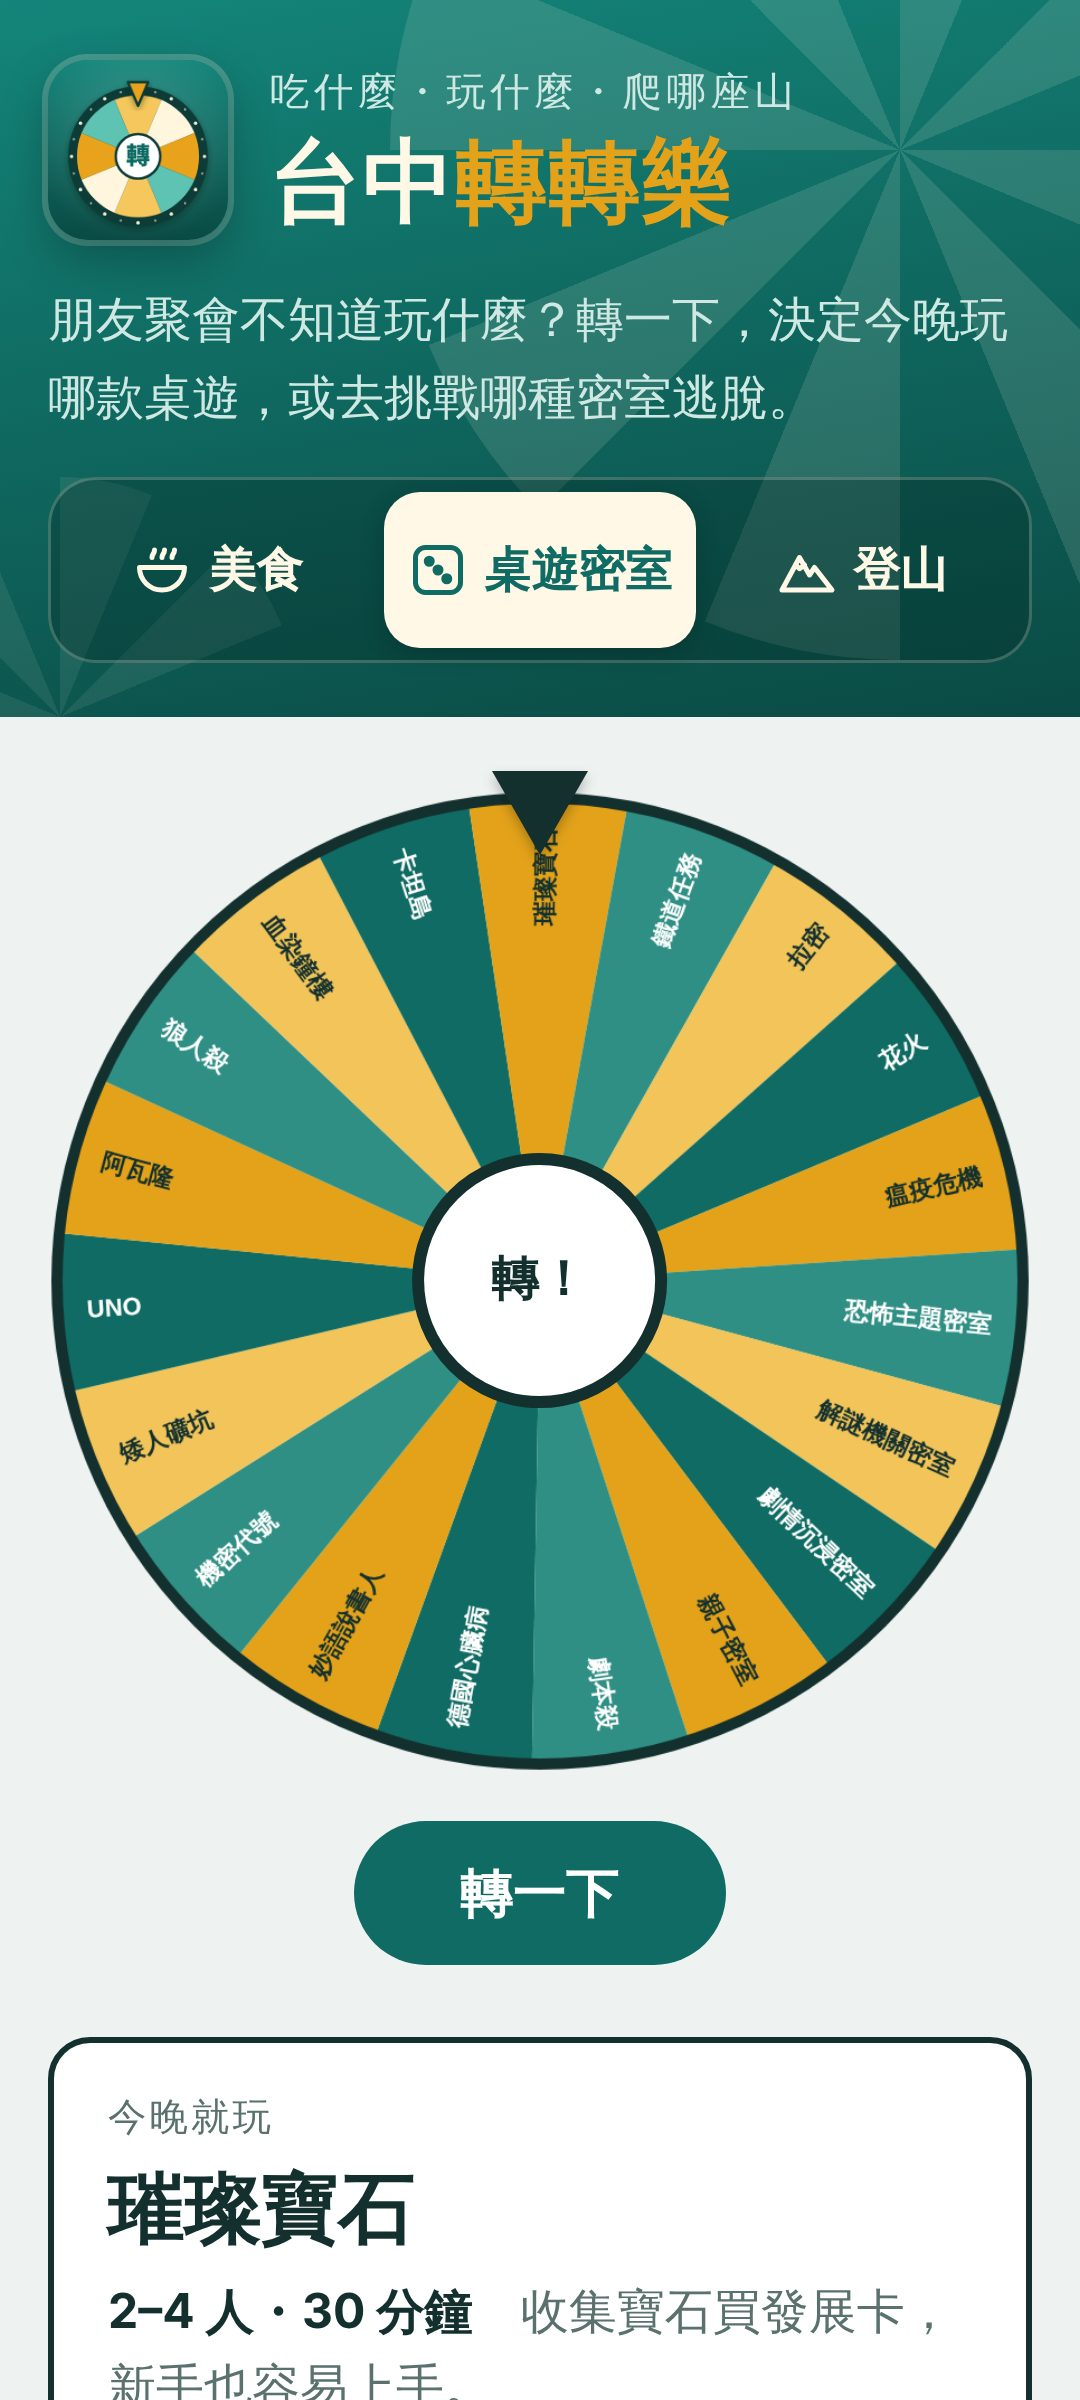
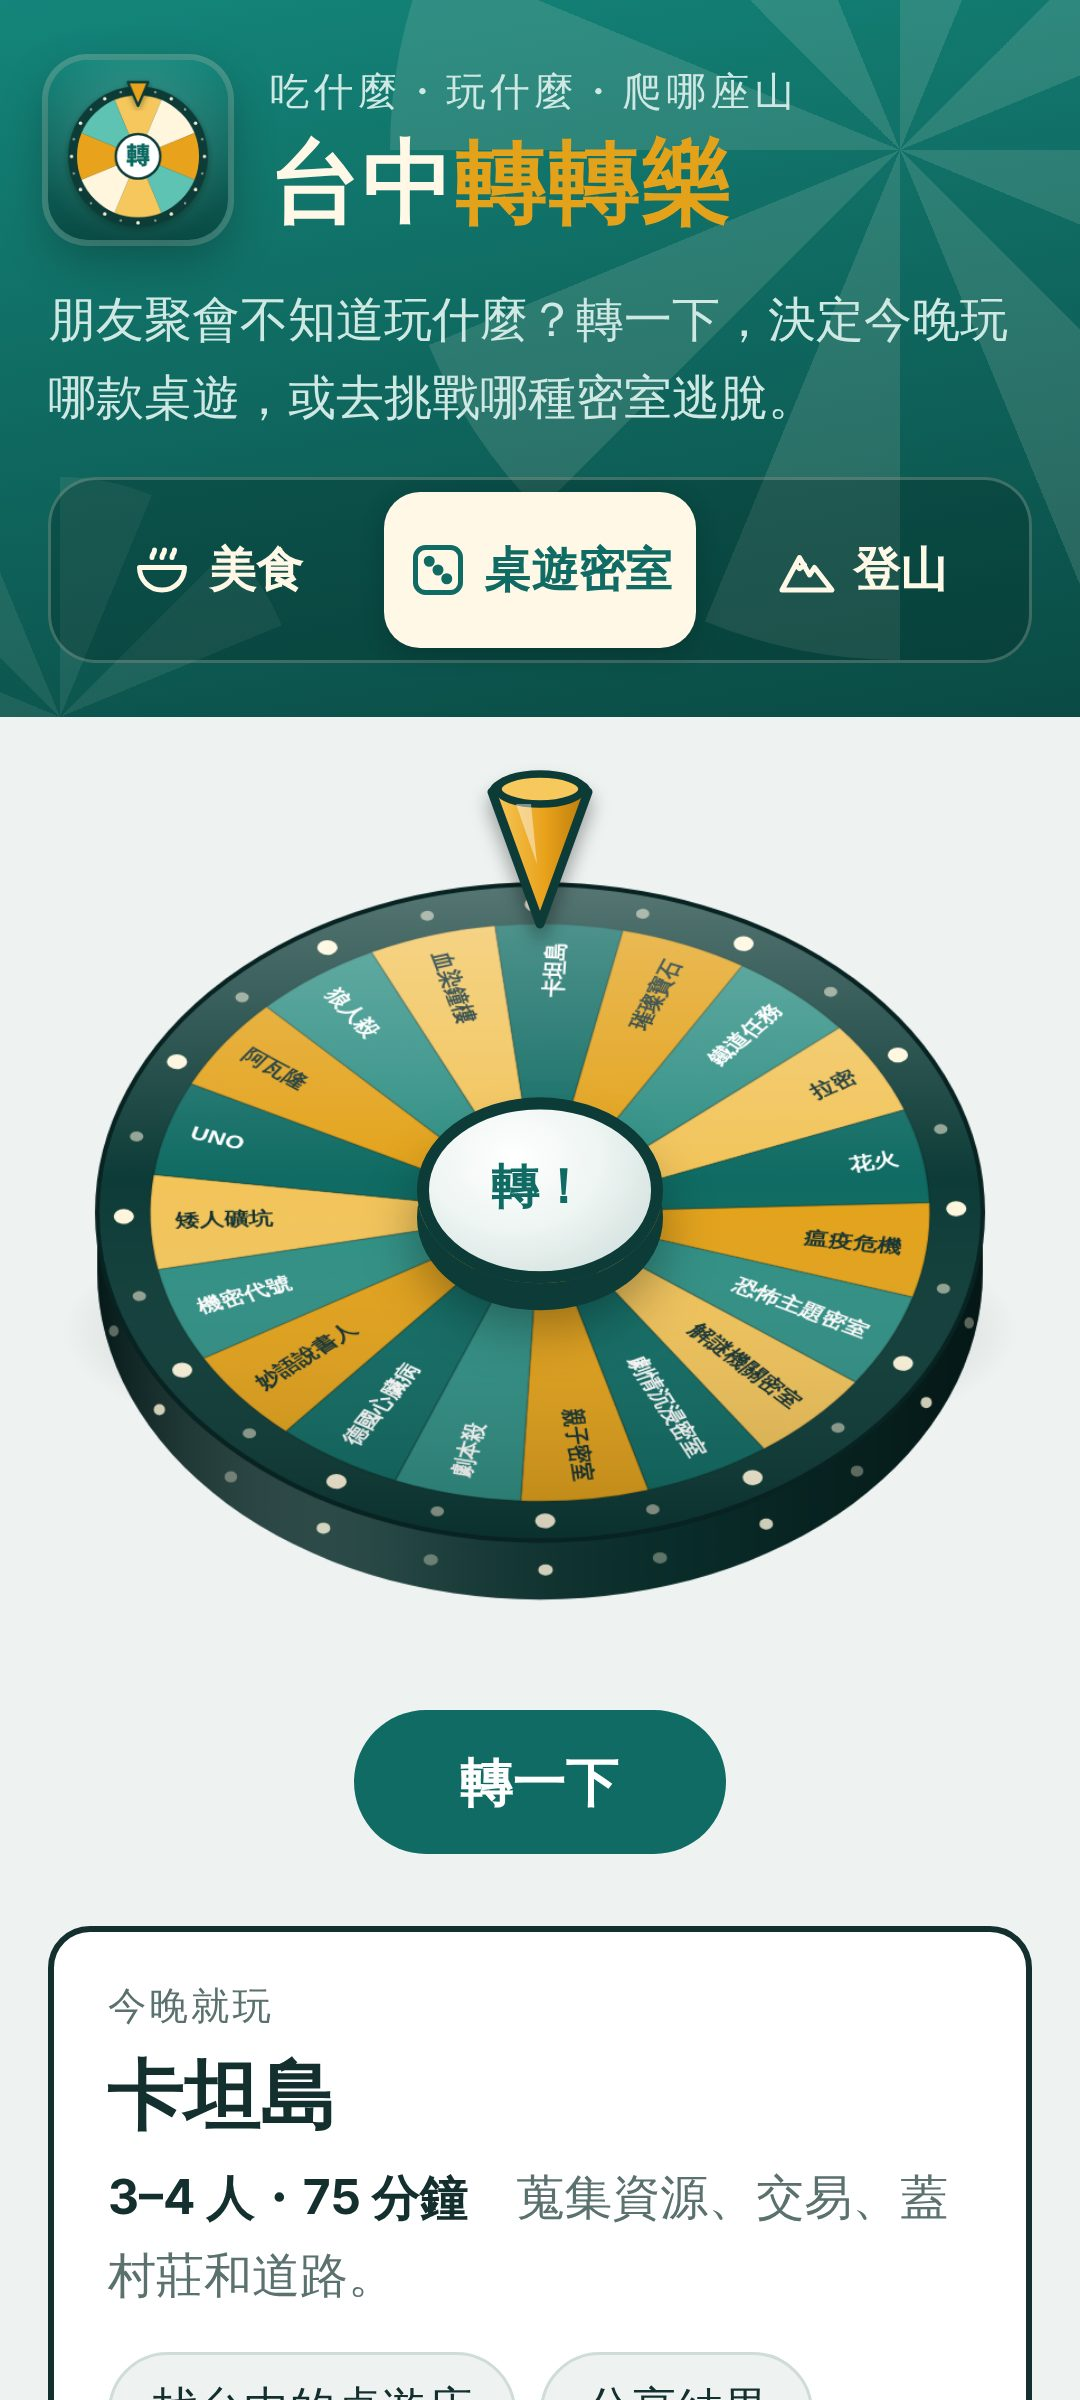
台中轉轉樂：轉盤改成立體 3D
Claude-Session: https://claude.ai/code/session_01RjTRgTtaL6n1Y88vUja3y2

diff --git a/wheel/index.html b/wheel/index.html
@@ -42,6 +42,9 @@
     --seg-4: #f2c45a;
     --seg-ink-dark: #14302e;
     --seg-ink-light: #ffffff;
+    --wheel-rim: #0d3b37;
+    --wheel-bulb: #fff6dd;
+    --wheel-shadow: rgba(4, 33, 30, .38);
     --font-display: "PingFang TC", "Noto Sans TC", "Microsoft JhengHei", sans-serif;
     --font-body: "PingFang TC", "Noto Sans TC", "Microsoft JhengHei", system-ui, sans-serif;
   }
@@ -52,6 +55,7 @@
       --hero-top: #143a36; --hero-bottom: #0b1f1d; --hero-fg: #e4efed; --hero-muted: #9fc2bc; --hero-line: rgba(228, 239, 237, .16); --hero-tab-bg: rgba(0, 0, 0, .3); --hero-tab-on: #4cc1b3; --hero-tab-on-fg: #0b1716;
       --seg-1: #1f7f75; --seg-2: #d79a1c; --seg-3: #2d9e91; --seg-4: #e9bc4f;
       --seg-ink-dark: #0e1918; --seg-ink-light: #ffffff;
+      --wheel-rim: #1f5b55; --wheel-bulb: #fff1c9; --wheel-shadow: rgba(0, 0, 0, .55);
       color-scheme: dark;
     }
   }
@@ -61,6 +65,7 @@
     --hero-top: #143a36; --hero-bottom: #0b1f1d; --hero-fg: #e4efed; --hero-muted: #9fc2bc; --hero-line: rgba(228, 239, 237, .16); --hero-tab-bg: rgba(0, 0, 0, .3); --hero-tab-on: #4cc1b3; --hero-tab-on-fg: #0b1716;
     --seg-1: #1f7f75; --seg-2: #d79a1c; --seg-3: #2d9e91; --seg-4: #e9bc4f;
     --seg-ink-dark: #0e1918; --seg-ink-light: #ffffff;
+    --wheel-rim: #1f5b55; --wheel-bulb: #fff1c9; --wheel-shadow: rgba(0, 0, 0, .55);
     color-scheme: dark;
   }
 
@@ -140,23 +145,27 @@
   @media (min-width: 820px) { .layout { grid-template-columns: minmax(0, 1.1fr) minmax(0, 1fr); } }
 
   .stage { display: grid; justify-items: center; gap: 16px; min-width: 0; }
-  .wheel-box { position: relative; width: min(100%, 440px); aspect-ratio: 1; max-width: 100%; }
+  .wheel-box { position: relative; width: min(100%, 440px); aspect-ratio: 880 / 780; max-width: 100%; }
   .wheel-box canvas { width: 100%; height: 100%; display: block; }
+  /* 立體轉盤：轉盤面往後傾斜，畫在 canvas 上；指針和中心鈕用 HTML 疊在上面 */
   .pointer {
-    position: absolute; left: 50%; top: -6px; transform: translateX(-50%);
-    width: 0; height: 0;
-    border-left: 16px solid transparent; border-right: 16px solid transparent;
-    border-top: 28px solid var(--fg);
-    filter: drop-shadow(0 2px 2px rgba(0,0,0,.25));
+    position: absolute; left: 50%; top: calc(10.6% - 40px); transform: translateX(-50%);
+    width: 44px; height: 58px; z-index: 2;
+    filter: drop-shadow(0 4px 3px rgba(0, 0, 0, .35));
   }
+  .pointer svg { width: 100%; height: 100%; display: block; }
   .hub {
-    position: absolute; inset: 50% auto auto 50%; transform: translate(-50%, -50%);
-    width: 26%; aspect-ratio: 1; border-radius: 50%;
-    background: var(--surface); border: 4px solid var(--fg);
+    position: absolute; left: 50%; top: 48.5%; transform: translate(-50%, -62%);
+    width: 25%; aspect-ratio: 1.33; border-radius: 50%;
+    background: radial-gradient(ellipse at 38% 30%, #ffffff 0%, #eef5f3 45%, #c9dad6 100%);
+    border: 4px solid var(--wheel-rim);
+    box-shadow: 0 9px 0 var(--wheel-rim), 0 14px 18px rgba(0, 0, 0, .35);
     display: grid; place-items: center;
-    font: 900 clamp(1rem, 4vw, 1.4rem) var(--font-display); color: var(--fg);
+    font: 900 clamp(1rem, 4vw, 1.4rem) var(--font-display); color: #0f6b63;
     cursor: pointer; padding: 0;
+    transition: transform .08s, box-shadow .08s;
   }
+  .hub:active:not(:disabled) { transform: translate(-50%, calc(-62% + 6px)); box-shadow: 0 3px 0 var(--wheel-rim), 0 6px 10px rgba(0, 0, 0, .3); }
   .hub:disabled { cursor: wait; }
 
   .spin-btn {
@@ -270,8 +279,16 @@
   <div class="layout">
     <section class="stage" aria-label="轉盤">
       <div class="wheel-box">
-        <canvas id="wheel" width="880" height="880" aria-hidden="true"></canvas>
-        <div class="pointer" aria-hidden="true"></div>
+        <canvas id="wheel" width="880" height="780" aria-hidden="true"></canvas>
+        <div class="pointer" aria-hidden="true">
+          <svg viewBox="0 0 44 58">
+            <defs><linearGradient id="pg" x1="0" y1="0" x2="1" y2="0"><stop offset="0" stop-color="#f7c95c"/><stop offset=".55" stop-color="#e9a21b"/><stop offset="1" stop-color="#b9780c"/></linearGradient></defs>
+            <ellipse cx="22" cy="10" rx="17" ry="7" fill="#0d3b37"/>
+            <path d="M6 10 L38 10 L22 54 Z" fill="url(#pg)" stroke="#0d3b37" stroke-width="3" stroke-linejoin="round"/>
+            <ellipse cx="22" cy="9" rx="14" ry="5" fill="#f7c95c" stroke="#0d3b37" stroke-width="2.5"/>
+            <path d="M14 14 L19 14 L21 34 Z" fill="#ffffff" opacity=".45"/>
+          </svg>
+        </div>
         <button id="hub" class="hub" type="button" aria-label="轉動轉盤">轉！</button>
       </div>
       <button id="spin" class="spin-btn" type="button">轉一下</button>
@@ -493,63 +510,148 @@
 
   function token(name) { return getComputedStyle(document.documentElement).getPropertyValue(name).trim(); }
 
-  function draw() {
-    var list = active();
-    var W = canvas.width, R = W / 2;
-    ctx.clearRect(0, 0, W, W);
-    var segFill = [token("--seg-1"), token("--seg-2"), token("--seg-3"), token("--seg-4")];
-    var inkLight = token("--seg-ink-light"), inkDark = token("--seg-ink-dark");
-    var rim = token("--fg");
-
-    ctx.save();
-    ctx.translate(R, R);
-    ctx.rotate(rotation);
-    if (!list.length) {
-      ctx.beginPath(); ctx.arc(0, 0, R - 8, 0, Math.PI * 2);
-      ctx.fillStyle = token("--surface"); ctx.fill();
-      ctx.restore(); drawRim(rim, R);
-      return;
-    }
-    var seg = Math.PI * 2 / list.length;
-    for (var i = 0; i < list.length; i++) {
-      var start = -Math.PI / 2 + i * seg;
-      var colorIdx = i % 4;
-      // 選項數是 4 的倍數加 1 時，避免最後一格和第一格同色。
-      if (i === list.length - 1 && list.length % 4 === 1 && list.length > 1) colorIdx = 1;
-      ctx.beginPath();
-      ctx.moveTo(0, 0);
-      ctx.arc(0, 0, R - 8, start, start + seg);
-      ctx.closePath();
-      ctx.fillStyle = segFill[colorIdx];
-      ctx.fill();
-
-      ctx.save();
-      var mid = start + seg / 2;
-      ctx.rotate(mid);
-      // 字在轉盤左半邊時轉 180 度，讓字永遠是正的。
-      var flip = Math.cos(mid + rotation) < 0;
-      if (flip) ctx.rotate(Math.PI);
-      ctx.textAlign = flip ? "left" : "right";
-      ctx.textBaseline = "middle";
-      ctx.fillStyle = (colorIdx % 2 === 0) ? inkLight : inkDark;
-      var size = Math.max(22, Math.min(40, 360 / Math.max(list.length, 6)));
-      ctx.font = "700 " + size + "px " + token("--font-display");
-      var text = list[i].name;
-      var maxW = R * 0.62;
-      while (ctx.measureText(text).width > maxW && text.length > 1) text = text.slice(0, -1);
-      if (text !== list[i].name) text = text.slice(0, -1) + "…";
-      ctx.fillText(text, flip ? -(R - 34) : R - 34, 0);
-      ctx.restore();
-    }
-    ctx.restore();
-    drawRim(rim, R);
+  // 把 #rrggbb 顏色調暗或調亮（f < 1 變暗，f > 1 變亮）
+  function shade(hex, f) {
+    var m = /^#?([0-9a-f]{6})$/i.exec(hex);
+    if (!m) return hex;
+    var n = parseInt(m[1], 16), out = [];
+    [16, 8, 0].forEach(function (sh) {
+      var c = (n >> sh) & 255;
+      c = f < 1 ? c * f : c + (255 - c) * (f - 1);
+      out.push(Math.max(0, Math.min(255, Math.round(c))));
+    });
+    return "rgb(" + out.join(",") + ")";
   }
 
-  function drawRim(color, R) {
+  // 立體轉盤的幾何設定（以 canvas 寬度為基準）
+  var TILT = 0.74;        // 轉盤面往後傾斜後的高度比例
+  function geo(W) {
+    return { cx: W / 2, cy: W * 0.43, fr: W * 0.45, depth: W * 0.06 };
+  }
+
+  function draw() {
+    var list = active();
+    var W = canvas.width;
+    var g = geo(W), cx = g.cx, cy = g.cy, fr = g.fr, T = g.depth, ry = fr * TILT;
+    ctx.clearRect(0, 0, W, canvas.height);
+    var segFill = [token("--seg-1"), token("--seg-2"), token("--seg-3"), token("--seg-4")];
+    var inkLight = token("--seg-ink-light"), inkDark = token("--seg-ink-dark");
+    var rim = token("--wheel-rim"), bulb = token("--wheel-bulb");
+
+    // 1. 地上的影子
+    ctx.save();
+    ctx.translate(cx, cy + T + ry * 0.18);
+    ctx.scale(1, 0.3);
+    var sg = ctx.createRadialGradient(0, 0, fr * 0.2, 0, 0, fr * 1.08);
+    sg.addColorStop(0, token("--wheel-shadow"));
+    sg.addColorStop(1, "rgba(0,0,0,0)");
+    ctx.fillStyle = sg;
+    ctx.beginPath(); ctx.arc(0, 0, fr * 1.08, 0, Math.PI * 2); ctx.fill();
+    ctx.restore();
+
+    // 2. 轉盤的側面（厚度），左右兩邊加暗，看起來像圓柱
     ctx.beginPath();
-    ctx.arc(R, R, R - 8, 0, Math.PI * 2);
-    ctx.lineWidth = 10;
-    ctx.strokeStyle = color;
+    ctx.ellipse(cx, cy, fr, ry, 0, 0, Math.PI);
+    ctx.ellipse(cx, cy + T, fr, ry, 0, Math.PI, 0, true);
+    ctx.closePath();
+    ctx.fillStyle = shade(rim, 0.8);
+    ctx.fill();
+    var side = ctx.createLinearGradient(cx - fr, 0, cx + fr, 0);
+    side.addColorStop(0, "rgba(0,0,0,.45)");
+    side.addColorStop(0.35, "rgba(255,255,255,.10)");
+    side.addColorStop(0.65, "rgba(0,0,0,.05)");
+    side.addColorStop(1, "rgba(0,0,0,.5)");
+    ctx.fillStyle = side;
+    ctx.fill();
+    // 側面上的燈泡跟著轉
+    var BULBS = 24;
+    for (var b = 0; b < BULBS; b++) {
+      var ba = rotation + b * Math.PI * 2 / BULBS + Math.PI / BULBS;
+      var sy = Math.sin(ba);
+      if (sy <= 0.08) continue;
+      ctx.beginPath();
+      ctx.ellipse(cx + fr * Math.cos(ba), cy + ry * sy + T * 0.5, 3.5 + 3 * sy, 5, 0, 0, Math.PI * 2);
+      ctx.fillStyle = b % 2 ? "rgba(255,246,221,.35)" : "rgba(255,246,221,.8)";
+      ctx.fill();
+    }
+
+    // 3. 轉盤面：外圈＋分格＋文字，全部畫在傾斜的平面上
+    ctx.save();
+    ctx.translate(cx, cy);
+    ctx.scale(1, TILT);
+    ctx.beginPath(); ctx.arc(0, 0, fr, 0, Math.PI * 2);
+    ctx.fillStyle = rim; ctx.fill();
+    ctx.rotate(rotation);
+    var sr = fr * 0.88;
+    if (!list.length) {
+      ctx.beginPath(); ctx.arc(0, 0, sr, 0, Math.PI * 2);
+      ctx.fillStyle = token("--surface"); ctx.fill();
+    } else {
+      var seg = Math.PI * 2 / list.length;
+      for (var i = 0; i < list.length; i++) {
+        var start = -Math.PI / 2 + i * seg;
+        var colorIdx = i % 4;
+        // 選項數是 4 的倍數加 1 時，避免最後一格和第一格同色。
+        if (i === list.length - 1 && list.length % 4 === 1 && list.length > 1) colorIdx = 1;
+        ctx.beginPath();
+        ctx.moveTo(0, 0);
+        ctx.arc(0, 0, sr, start, start + seg);
+        ctx.closePath();
+        ctx.fillStyle = segFill[colorIdx];
+        ctx.fill();
+        ctx.strokeStyle = "rgba(0,0,0,.14)";
+        ctx.lineWidth = 2;
+        ctx.stroke();
+
+        ctx.save();
+        var mid = start + seg / 2;
+        ctx.rotate(mid);
+        // 字在轉盤左半邊時轉 180 度，讓字永遠是正的。
+        var flip = Math.cos(mid + rotation) < 0;
+        if (flip) ctx.rotate(Math.PI);
+        ctx.textAlign = flip ? "left" : "right";
+        ctx.textBaseline = "middle";
+        ctx.fillStyle = (colorIdx % 2 === 0) ? inkLight : inkDark;
+        var size = Math.max(22, Math.min(40, 330 / Math.max(list.length, 6)));
+        ctx.font = "700 " + size + "px " + token("--font-display");
+        var text = list[i].name;
+        var maxW = sr * 0.6;
+        while (ctx.measureText(text).width > maxW && text.length > 1) text = text.slice(0, -1);
+        if (text !== list[i].name) text = text.slice(0, -1) + "…";
+        ctx.fillText(text, flip ? -(sr - 22) : sr - 22, 0);
+        ctx.restore();
+      }
+    }
+    // 外圈的燈泡
+    for (var d = 0; d < BULBS; d++) {
+      var da = d * Math.PI * 2 / BULBS + Math.PI / BULBS;
+      ctx.beginPath();
+      ctx.arc(fr * 0.94 * Math.cos(da), fr * 0.94 * Math.sin(da), d % 2 ? 6 : 9, 0, Math.PI * 2);
+      ctx.fillStyle = bulb;
+      ctx.globalAlpha = d % 2 ? 0.55 : 1;
+      ctx.fill();
+      ctx.globalAlpha = 1;
+    }
+    ctx.restore();
+
+    // 4. 光澤：上方亮、下方暗
+    ctx.save();
+    ctx.beginPath();
+    ctx.ellipse(cx, cy, fr, ry, 0, 0, Math.PI * 2);
+    ctx.clip();
+    var gloss = ctx.createLinearGradient(0, cy - ry, 0, cy + ry);
+    gloss.addColorStop(0, "rgba(255,255,255,.30)");
+    gloss.addColorStop(0.45, "rgba(255,255,255,0)");
+    gloss.addColorStop(1, "rgba(0,0,0,.18)");
+    ctx.fillStyle = gloss;
+    ctx.fillRect(cx - fr, cy - ry, fr * 2, ry * 2);
+    ctx.restore();
+
+    // 5. 轉盤面的邊線
+    ctx.beginPath();
+    ctx.ellipse(cx, cy, fr, ry, 0, 0, Math.PI * 2);
+    ctx.lineWidth = 4;
+    ctx.strokeStyle = shade(rim, 0.6);
     ctx.stroke();
   }
 

diff --git a/wheel/sw.js b/wheel/sw.js
@@ -1,6 +1,6 @@
 // 台中轉轉樂的 service worker：先存好 App 檔案，沒有網路也能開啟。
 // 修改任何檔案後，請把 CACHE 的版本號加一，手機才會更新到新版。
-const CACHE = "taichung-wheels-v4";
+const CACHE = "taichung-wheels-v5";
 const FILES = [
   "./",
   "./index.html",
